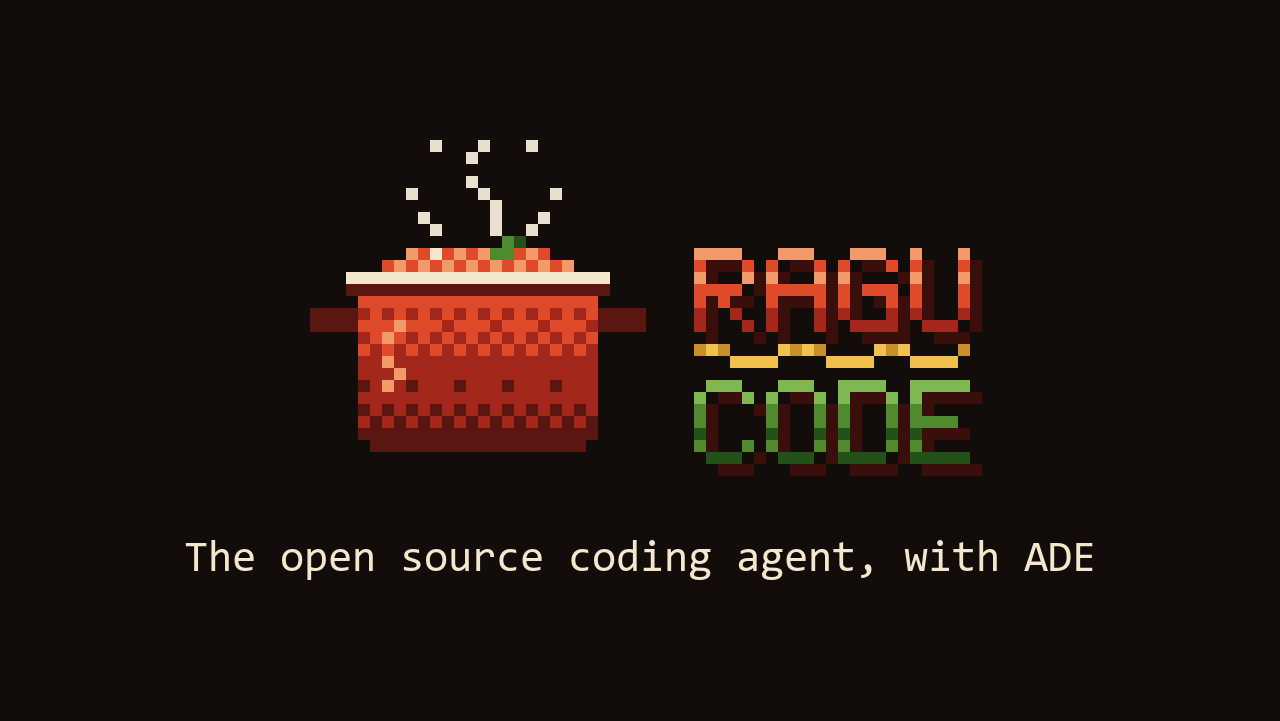
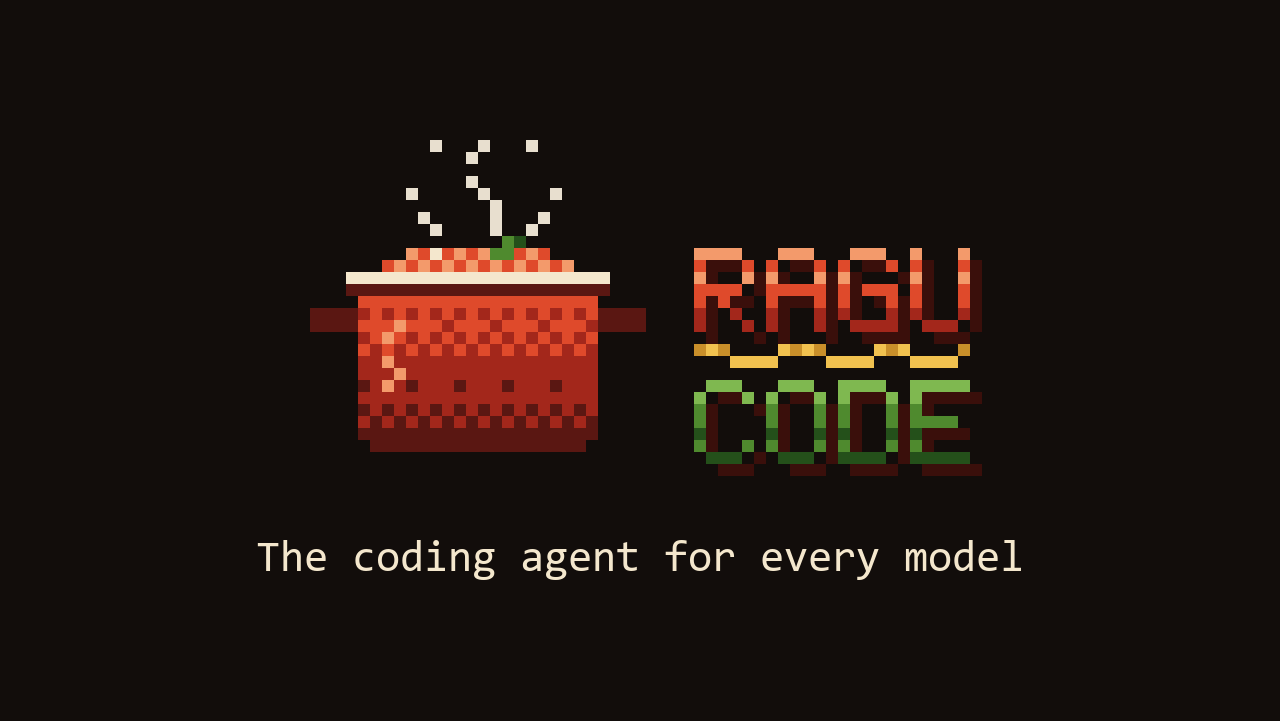
docs(brand): Ragu Code's tagline is «The coding agent for every model» (README, nix, package README, social picture)

Changed region(s): [[0.1562, 0.7323, 0.875, 0.8239]]

diff --git a/packages/ui/src/assets/make-ragu.py b/packages/ui/src/assets/make-ragu.py
@@ -31,7 +31,7 @@ CREAM = "#f4e7cd"
 STEAM = "#e8dfcf"
 STEAM_ON_LIGHT = "#f39a6b"
 # The phrase of the README's first lines, the one that says what Ragu Code is.
-TAGLINE = "The open source coding agent, with ADE"
+TAGLINE = "The coding agent for every model"
 
 
 def check_pot() -> None:

diff --git a/README.md b/README.md
@@ -1,6 +1,6 @@
 # Ragu Code
 
-> **Ragu Code is a fork of [nikcli](https://github.com/nikcli/nikcli), which is itself a fork of [OpenCode](https://github.com/anomalyco/opencode)** — the open source coding agent, with ADE, the desktop app that runs coding agents side by side.
+> **Ragu Code is a fork of [nikcli](https://github.com/nikcli/nikcli), which is itself a fork of [OpenCode](https://github.com/anomalyco/opencode)** — the coding agent for every model, with ADE, the desktop app that runs coding agents side by side.
 
 Ragu Code is maintained by **Alessandro Boni** ([SandroHub013](https://github.com/SandroHub013)). It is not affiliated with, endorsed by, or supported by nikcli or OpenCode: report Ragu Code issues here, never upstream.
 

diff --git a/packages/ragu/README.md b/packages/ragu/README.md
@@ -1,6 +1,6 @@
 # ragu
 
-> **A fork of [OpenCode](https://github.com/anomalyco/opencode)** — the open source coding agent.
+> **The coding agent for every model.** A fork of [OpenCode](https://github.com/anomalyco/opencode).
 > Credit for the original project goes to the OpenCode authors and contributors. ragu is an
 > independent fork, not affiliated with or endorsed by them.
 
